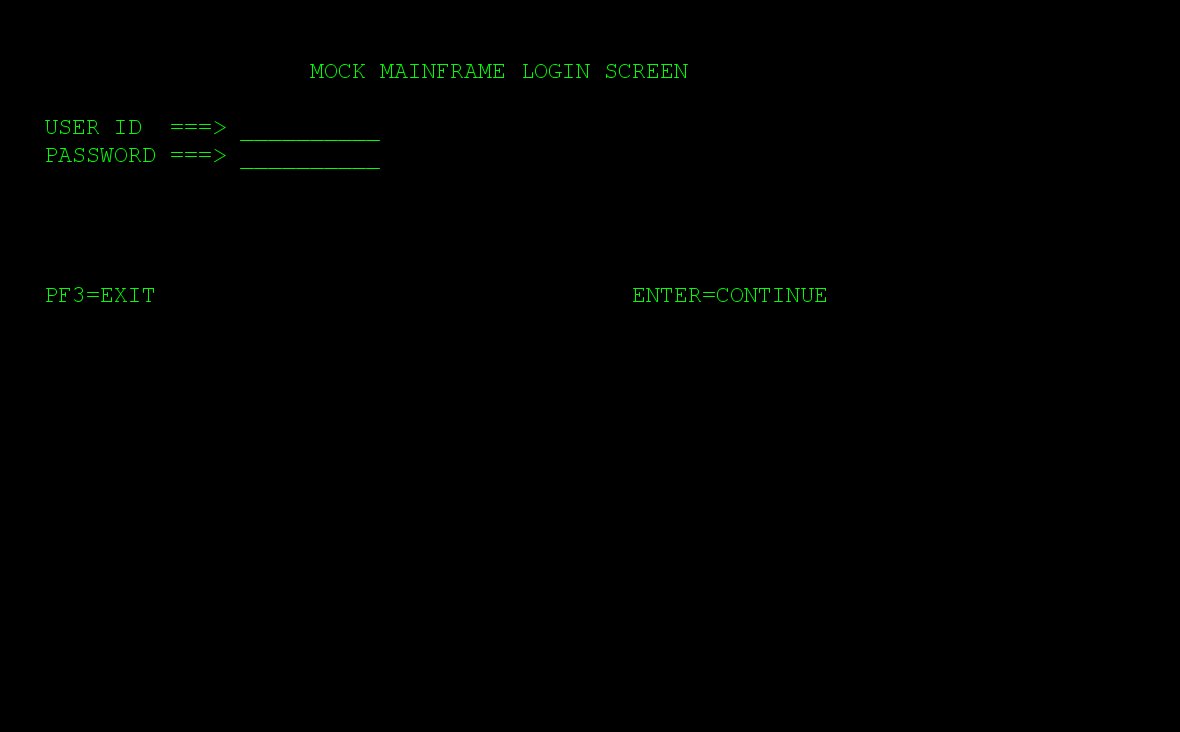
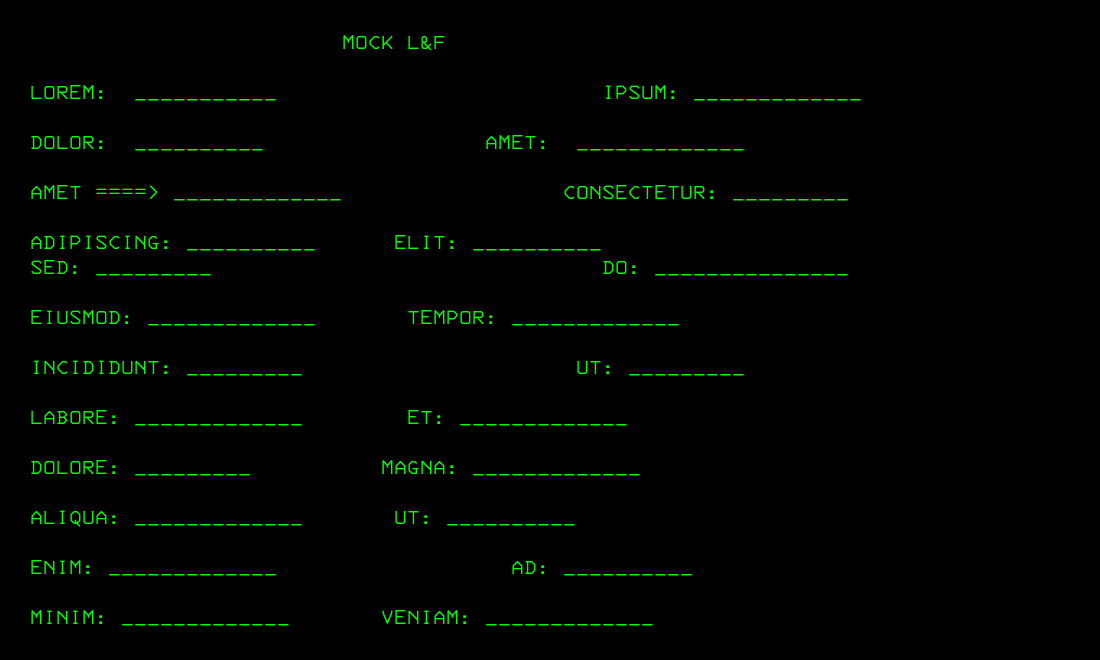
intermediate revison - added arguments for input output font etc.

diff --git a/basic-imagemagick-tesseract-ocr/src/main/java/example/Runner.java b/basic-imagemagick-tesseract-ocr/src/main/java/example/Runner.java
@@ -1,15 +1,32 @@
 package example;
 
+/**
+ * Copyright 2026 Serguei Kouzmine
+ */
+
 import javax.imageio.ImageIO;
+
+// import com.google.gson.Gson;
+// import com.google.gson.GsonBuilder;
+
+// import example.utils.Generator;
+
 import java.awt.*;
 import java.awt.image.BufferedImage;
 import java.io.File;
+import java.io.IOException;
+import java.nio.file.Paths;
 import java.nio.file.Files;
 import java.nio.file.Path;
+import java.util.HashMap;
 import java.util.List;
+import java.util.Map;
 
 public class Runner {
 
+	private static boolean debug = false;
+	// private static Gson gson = new
+	// GsonBuilder().setPrettyPrinting().serializeNulls().create();
 	static final int COLS = 80;
 	static final int ROWS = 24;
 
@@ -20,18 +37,76 @@ public class Runner {
 
 	public static void main(String[] args) throws Exception {
 
-		List<String> screen = List.of(
-				"                                                                                ",
-				"                    MOCK MAINFRAME LOGIN SCREEN                                 ",
-				"                                                                                ",
-				" USER ID  ===> __________                                                       ",
-				" PASSWORD ===> __________                                                       ",
-				"                                                                                ",
-				"                                                                                ",
-				"                                                                                ",
-				"                                                                                ",
-				" PF3=EXIT                                  ENTER=CONTINUE                       ");
+		Map<String, String> cli = parseArgs(args);
 
+		String outputFile = "console.png";
+		String fontPath = null;
+		// reserved for future
+		String labelFile = "console.json";
+		String screenfile = "example.txt";
+		String page = "cp037"; // EBCDIC
+		Long words = 1L;
+		Long length = 1L;
+		String foregroundColor = null;
+		String backgroundColor = null;
+		String degraded = null;
+
+		if (cli.containsKey("debug")) {
+			debug = true;
+		}
+
+		if (debug)
+			System.err.println(cli.keySet());
+
+		if (cli.containsKey("help") || !cli.containsKey("outputfile")) {
+			System.err.println(
+					String.format("Usage: jar " + "-screenfile <filename> -outputfile <filename> -font <font>\r\n"));
+			return;
+		}
+		if (cli.containsKey("outputfile"))
+			outputFile = cli.get("outputfile");
+		if (cli.containsKey("screenfile"))
+			screenfile = cli.get("screenfile");
+		if (cli.containsKey("words"))
+			words = Long.parseLong(cli.get("words"));
+
+		if (cli.containsKey("page"))
+			page = cli.get("page");
+		if (cli.containsKey("font"))
+			fontPath = cli.get("font");
+		if (cli.containsKey("background"))
+			backgroundColor = cli.get("background");
+		if (cli.containsKey("foreground"))
+			foregroundColor = cli.get("foreground");
+		if (cli.containsKey("degraded"))
+			degraded = cli.get("degraded");
+		if (cli.containsKey("labelfile"))
+			labelFile = cli.get("labelfile");
+		// new Generator(copybookFile, outputFile, page, maxRows).generate();
+
+		List<String> screen = List.of("                         LORE-MF",
+				"                                                                ",
+				"LOREM:  ___________                         IPSUM: _____________",
+				"DOLOR:  __________                 AMET:  _____________",
+				"AMET ====> _____________                 CONSECTETUR: _________",
+				"ADIPISCING: __________      ELIT: __________",
+				"SED: _________                              DO: _______________",
+				"ENIM: _____________                  AD: __________",
+				"MINIM: _____________       VENIAM: _____________",
+				"QUIS: _____________                 NOSTRUD: ___________",
+				"COMMODO: _____________       CONSEQUAT: __________", "",
+				"PF1=HELP  PF2=SPLIT  PF3=END  PF4=RETURN  PF5=RFIND  PF6=RCHANGE",
+				"PF7=UP    PF8=DOWN   PF9=SWAP  PF10=LEFT  PF11=RIGHT  PF12=RETRIEVE");
+
+		if (screenfile != null) {
+			Path path = Paths.get(screenfile);
+
+			try {
+				screen = Files.readAllLines(path);
+			} catch (IOException e) {
+				e.printStackTrace();
+			}
+		}
 		// To achieve a lookalike screenshot of Blue Prism IBM 3270 mainframe/CICS
 		// terminal emulator
 		// one may use the open-source TrueType font
@@ -40,12 +115,17 @@ public class Runner {
 
 		// Fallback for a standard monospace font
 		Font font = new Font(Font.MONOSPACED, Font.PLAIN, FONT_SIZE);
-		String filename = "3270NerdFontMono-Regular.ttf";
-		String name = "3270 Nerd Font Mono";
-		font = Font
-				.createFont(Font.TRUETYPE_FONT,
-						new File(String.format("%s\\Downloads\\%s", System.getenv("USERPROFILE"), filename)))
-				.deriveFont((float) FONT_SIZE);
+		if (fontPath == null)
+			fontPath = System.getenv().containsKey("FONT_PATH") ? System.getenv("FONT_PATH")
+					: getOSName().equals("windows")
+							? Paths.get(System.getProperty("user.home")).resolve("Downloads")
+									.resolve("3270NerdFontMono-Regular.ttf").toAbsolutePath().toString()
+							: "/usr/share/fonts/opentype/3270/3270-Regular.otf";
+
+		font = Font.createFont(Font.TRUETYPE_FONT, new File(fontPath)).deriveFont((float) FONT_SIZE);
+
+		// String name = "3270 Nerd Font Mono";
+		font = Font.createFont(Font.TRUETYPE_FONT, new File(fontPath)).deriveFont((float) FONT_SIZE);
 
 		// create a temporary image to compute FontMetrics.
 		BufferedImage metricsImage = new BufferedImage(1, 1, BufferedImage.TYPE_INT_RGB);
@@ -129,8 +209,33 @@ public class Runner {
 
 		g.dispose();
 
-		ImageIO.write(image, "png", new File("console.png"));
+		ImageIO.write(image, "png", new File(outputFile));
 
-		System.out.println("Wrote console.png");
+		System.out.println(String.format("Wrote %s", outputFile));
+	}
+
+	private static String osName;
+
+	public static String getOSName() {
+		if (osName == null) {
+			osName = System.getProperty("os.name").toLowerCase();
+			if (osName.startsWith("windows")) {
+				osName = "windows";
+			}
+		}
+		return osName;
+	}
+
+	// Extremely simple CLI parser: -key value
+	private static Map<String, String> parseArgs(String[] args) {
+		Map<String, String> map = new HashMap<>();
+		for (int i = 0; i < args.length - 1; i++) {
+			if (args[i].startsWith("-")) {
+				map.put(args[i].substring(1), args[i + 1]);
+				i++;
+			}
+		}
+		return map;
 	}
 }
+

diff --git a/basic-imagemagick-tesseract-ocr/README.md b/basic-imagemagick-tesseract-ocr/README.md
@@ -329,6 +329,148 @@ S4 = brown on dark gray
 S5 = vintage / color-shifted
 S6 = slight character-position jitter
 
+
+![CICS login screen mock](images/console5.png)
+
+
+```sh
+./scan_screenshot.sh images/console5.png
+```
+```txt
+Estimating resolution as 185
+=>
+ADIPISCING:
+SED:
+
+ENIM:
+MINIM:
+QUIS:
+COMMODO :
+
+PF1=HELP PF2=SPLIT
+PF 7=UP
+
+LORE-MF
+
+IPSUM:
+AMET:
+CONSECTETUR:
+ELIT:
+DO:
+AD:
+VENIAM:
+NOSTRUD:
+CONSEQUAT:
+
+PF3=END PF4=RETURN PFS=RFIND PF6=RCHANGE
+WAP PF1O=LEFT PF11=RIGHT PF12=RETRIEVE
+
+
+```
+
+```
+cat example.text 
+```
+```
+                        MOCK L&F
+
+LOREM:  ___________                         IPSUM: _____________
+
+DOLOR:  __________                 AMET:  _____________
+
+AMET ====> _____________                 CONSECTETUR: _________
+
+ADIPISCING: __________      ELIT: __________
+SED: _________                              DO: _______________
+
+EIUSMOD: _____________       TEMPOR: _____________
+
+INCIDIDUNT: _________                     UT: _________
+
+LABORE: _____________        ET: _____________
+
+DOLORE: _________          MAGNA: _____________
+
+ALIQUA: _____________       UT: __________
+
+ENIM: _____________                  AD: __________
+
+MINIM: _____________       VENIAM: _____________
+
+QUIS: _____________                 NOSTRUD: ___________
+
+EXERCITATION: _________          ULLAMCO: _____________
+
+LABORIS: _____________       NISI: __________
+
+UT: _____________                  ALIQUIP: ___________
+
+EX: _____________          EA: _____________
+
+COMMODO: _____________       CONSEQUAT: __________
+
+                         ...
+
+			 PF1=HELP  PF2=SPLIT  PF3=END  PF4=RETURN  PF5=RFIND  PF6=RCHANGE
+			 PF7=UP    PF8=DOWN   PF9=SWAP  PF10=LEFT  PF11=RIGHT  PF12=RETRIEVE
+
+```
+```
+mvn package
+mkdir results
+```
+```sh
+java -jar target/example.teller-screen.jar  -screenfile example.text  -outputfile images/console.png 
+```
+```
+```
+```
+./scan_screenshot.sh  images/console.png | tee results/console.txt /dev/stderr
+```
+```text
+Estimating resolution as 179
+MOCK L&F
+
+LOREM: IPSUM:
+DOLOR: AMET:
+
+AMET =
+
+ADIPISCING: __________ ELIT: ~_________
+
+SED: ______-__ DO: _______________
+EIUSMOD: _____________ TEMPOR: __________
+INCIDIDUNT: _________ UT: ~W
+LABORE: _____________ ET: ~----_--
+
+DOLORE: _________ MAGNA: ___--
+
+ALIQUA: UT:
+
+ENIM: AD:
+
+MOCK L&F
+
+LOREM: IPSUM:
+DOLOR: AMET:
+
+AMET =
+
+ADIPISCING: __________ ELIT: ~_________
+
+SED: ______-__ DO: _______________
+EIUSMOD: _____________ TEMPOR: __________
+INCIDIDUNT: _________ UT: ~W
+LABORE: _____________ ET: ~----_--
+
+DOLORE: _________ MAGNA: ___--
+
+ALIQUA: UT:
+
+ENIM: AD:
+
+```
+* add a Python loop arond it
 ### Unrelated
 
 The next step is understanding what information exists, categorizing it, and identifying the relationships that make it valuable.
